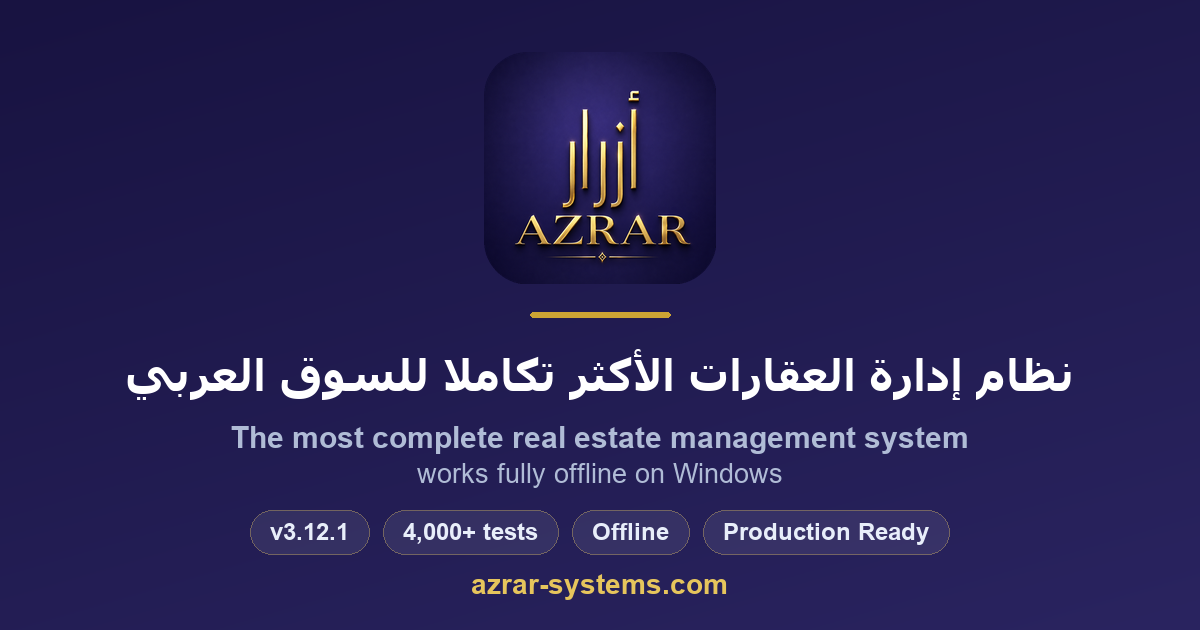
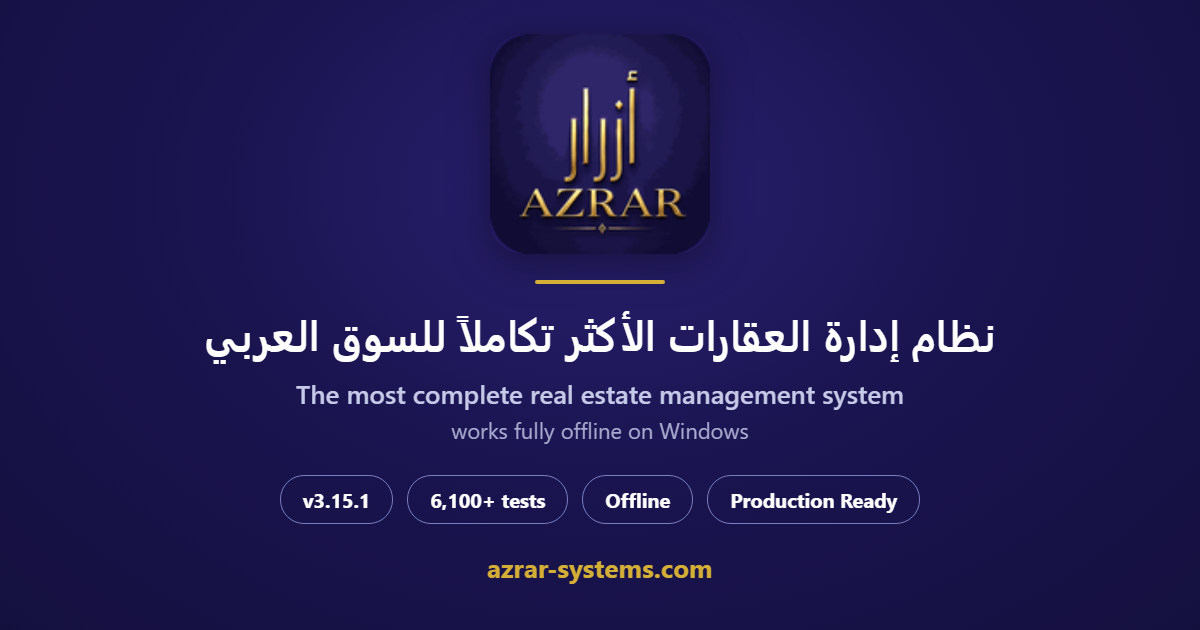
Regenerate stale og-image.png with current version/test stats
og-image.png still showed v3.12.1 / 4,000+ tests (site is now v3.15.1 /
6,100+ tests), so every shared link showed outdated info in previews.
Rebuilt the same design with current numbers, bumped the ?v= cache-buster
on all 22 referencing pages, and bumped the Service Worker cache version.

diff --git a/guide.html b/guide.html
@@ -38,12 +38,12 @@ window.addEventListener('load',function(){
 <meta property="og:url" content="https://azrar-systems.com/guide.html">
 <meta property="og:title" content="دليل استخدام نظام أزرار العقاري خطوة بخطوة">
 <meta property="og:description" content="تعلّم نظام أزرار من الصفر حتى الاحتراف: التفعيل، قاعدة البيانات، العقود، الأقساط، التحصيل، العمولات، واتساب، والتقارير.">
-<meta property="og:image" content="https://azrar-systems.com/og-image.png?v=4">
+<meta property="og:image" content="https://azrar-systems.com/og-image.png?v=5">
 <meta property="og:image:width" content="1200">
 <meta property="og:image:height" content="630">
 <meta property="og:site_name" content="AZRAR SYSTEMS">
 <meta name="twitter:card" content="summary_large_image">
-<meta name="twitter:image" content="https://azrar-systems.com/og-image.png?v=4">
+<meta name="twitter:image" content="https://azrar-systems.com/og-image.png?v=5">
 <link rel="icon" href="logo.png">
 <script type="application/ld+json">
 {
@@ -51,7 +51,7 @@ window.addEventListener('load',function(){
   "@type": "TechArticle",
   "headline": "دليل استخدام نظام أزرار العقاري — شرح كامل خطوة بخطوة",
   "description": "دليل شامل لتعلّم نظام أزرار لإدارة العقارات خطوة بخطوة: التثبيت والتفعيل، العقود والأقساط، التحصيل، العمولات، واتساب الجماعي، والتقارير والنسخ الاحتياطي.",
-  "image": "https://azrar-systems.com/og-image.png?v=4",
+  "image": "https://azrar-systems.com/og-image.png?v=5",
   "author": {
     "@type": "Organization",
     "name": "AZRAR SYSTEMS",
@@ -176,7 +176,7 @@ footer a{color:#dcb15f;text-decoration:none;}
 .lang-btn.active{background:var(--blue)!important;color:#fff!important;}
 </style>
 <script type="application/ld+json">
-{"@context":"https://schema.org","@type":"HowTo","name":"كيفية استخدام نظام أزرار لإدارة العقارات","description":"دليل شامل خطوة بخطوة لتعلّم نظام أزرار: التفعيل، قاعدة البيانات والمزامنة، العقارات والعملاء، العقود والأقساط، التحصيل والغرامات، العمولات، واتساب الجماعي، التقارير، الصيانة، والنسخ الاحتياطي.","totalTime":"PT45M","image":"https://azrar-systems.com/og-image.png?v=4","step":[{"@type":"HowToStep","name":"التثبيت والتفعيل","text":"ثبّت النظام على Windows وفعّل الترخيص أو ابدأ التجربة المجانية 30 يوماً.","url":"https://azrar-systems.com/guide.html#install"},{"@type":"HowToStep","name":"الإعداد الأولي والمستخدمون","text":"أضف بيانات مكتبك والمستخدمين والصلاحيات والإعدادات الافتراضية.","url":"https://azrar-systems.com/guide.html#setup"},{"@type":"HowToStep","name":"قاعدة البيانات والمزامنة","text":"اعمل محلياً بلا إنترنت، أو اربط عدة أجهزة عبر SQL Server.","url":"https://azrar-systems.com/guide.html#database"},{"@type":"HowToStep","name":"لوحة المعلومات","text":"تابع نسبة الإشغال والأقساط المستحقة والمتأخرات في لمحة.","url":"https://azrar-systems.com/guide.html#dashboard"},{"@type":"HowToStep","name":"إضافة العقارات","text":"سجّل وحداتك العقارية وحالتها ومرفقاتها.","url":"https://azrar-systems.com/guide.html#properties"},{"@type":"HowToStep","name":"العملاء والملاك","text":"ابنِ قاعدة بيانات المستأجرين والملاك والوسطاء.","url":"https://azrar-systems.com/guide.html#people"},{"@type":"HowToStep","name":"إنشاء العقود والأقساط","text":"أنشئ عقد إيجار واحسب الأقساط تلقائياً بفرقية الأيام الفعلية.","url":"https://azrar-systems.com/guide.html#contracts"},{"@type":"HowToStep","name":"التحصيل والدفعات","text":"سجّل الدفعات الكاملة والجزئية وتابع المتأخرات والغرامات.","url":"https://azrar-systems.com/guide.html#payments"},{"@type":"HowToStep","name":"العمولات","text":"احتسب عمولات الوسطاء والموظفين تلقائياً.","url":"https://azrar-systems.com/guide.html#commissions"},{"@type":"HowToStep","name":"واتساب الجماعي","text":"أرسل تذكيرات واتساب جماعية مخصّصة.","url":"https://azrar-systems.com/guide.html#whatsapp"},{"@type":"HowToStep","name":"التقارير","text":"استخرج تقارير المالك والدخل والمتأخرات وبراءة الذمة.","url":"https://azrar-systems.com/guide.html#reports"},{"@type":"HowToStep","name":"النسخ الاحتياطي","text":"النسخ التلقائي اليومي والاستعادة الفورية.","url":"https://azrar-systems.com/guide.html#backup"}]}
+{"@context":"https://schema.org","@type":"HowTo","name":"كيفية استخدام نظام أزرار لإدارة العقارات","description":"دليل شامل خطوة بخطوة لتعلّم نظام أزرار: التفعيل، قاعدة البيانات والمزامنة، العقارات والعملاء، العقود والأقساط، التحصيل والغرامات، العمولات، واتساب الجماعي، التقارير، الصيانة، والنسخ الاحتياطي.","totalTime":"PT45M","image":"https://azrar-systems.com/og-image.png?v=5","step":[{"@type":"HowToStep","name":"التثبيت والتفعيل","text":"ثبّت النظام على Windows وفعّل الترخيص أو ابدأ التجربة المجانية 30 يوماً.","url":"https://azrar-systems.com/guide.html#install"},{"@type":"HowToStep","name":"الإعداد الأولي والمستخدمون","text":"أضف بيانات مكتبك والمستخدمين والصلاحيات والإعدادات الافتراضية.","url":"https://azrar-systems.com/guide.html#setup"},{"@type":"HowToStep","name":"قاعدة البيانات والمزامنة","text":"اعمل محلياً بلا إنترنت، أو اربط عدة أجهزة عبر SQL Server.","url":"https://azrar-systems.com/guide.html#database"},{"@type":"HowToStep","name":"لوحة المعلومات","text":"تابع نسبة الإشغال والأقساط المستحقة والمتأخرات في لمحة.","url":"https://azrar-systems.com/guide.html#dashboard"},{"@type":"HowToStep","name":"إضافة العقارات","text":"سجّل وحداتك العقارية وحالتها ومرفقاتها.","url":"https://azrar-systems.com/guide.html#properties"},{"@type":"HowToStep","name":"العملاء والملاك","text":"ابنِ قاعدة بيانات المستأجرين والملاك والوسطاء.","url":"https://azrar-systems.com/guide.html#people"},{"@type":"HowToStep","name":"إنشاء العقود والأقساط","text":"أنشئ عقد إيجار واحسب الأقساط تلقائياً بفرقية الأيام الفعلية.","url":"https://azrar-systems.com/guide.html#contracts"},{"@type":"HowToStep","name":"التحصيل والدفعات","text":"سجّل الدفعات الكاملة والجزئية وتابع المتأخرات والغرامات.","url":"https://azrar-systems.com/guide.html#payments"},{"@type":"HowToStep","name":"العمولات","text":"احتسب عمولات الوسطاء والموظفين تلقائياً.","url":"https://azrar-systems.com/guide.html#commissions"},{"@type":"HowToStep","name":"واتساب الجماعي","text":"أرسل تذكيرات واتساب جماعية مخصّصة.","url":"https://azrar-systems.com/guide.html#whatsapp"},{"@type":"HowToStep","name":"التقارير","text":"استخرج تقارير المالك والدخل والمتأخرات وبراءة الذمة.","url":"https://azrar-systems.com/guide.html#reports"},{"@type":"HowToStep","name":"النسخ الاحتياطي","text":"النسخ التلقائي اليومي والاستعادة الفورية.","url":"https://azrar-systems.com/guide.html#backup"}]}
 </script>
 <script type="application/ld+json">{"@context": "https://schema.org", "@type": "BreadcrumbList", "itemListElement": [{"@type": "ListItem", "position": 1, "name": "الرئيسية", "item": "https://azrar-systems.com/"}, {"@type": "ListItem", "position": 2, "name": "دليل الاستخدام", "item": "https://azrar-systems.com/guide.html"}]}</script>
 <script>document.documentElement.className+=" az-anim";</script>

diff --git a/guide-en.html b/guide-en.html
@@ -38,11 +38,11 @@ window.addEventListener('load',function(){
 <meta property="og:url" content="https://azrar-systems.com/guide-en.html">
 <meta property="og:title" content="AZRAR User Guide — Real Estate Management Step by Step">
 <meta property="og:description" content="Learn AZRAR from zero to pro: activation, database, contracts, installments, collection, commissions, WhatsApp, and reports.">
-<meta property="og:image" content="https://azrar-systems.com/og-image.png?v=4">
+<meta property="og:image" content="https://azrar-systems.com/og-image.png?v=5">
 <meta property="og:image:width" content="1200"><meta property="og:image:height" content="630">
 <meta property="og:site_name" content="AZRAR SYSTEMS"><meta property="og:locale" content="en_US">
 <meta name="twitter:card" content="summary_large_image">
-<meta name="twitter:image" content="https://azrar-systems.com/og-image.png?v=4">
+<meta name="twitter:image" content="https://azrar-systems.com/og-image.png?v=5">
 <link rel="icon" href="logo.png">
 <script type="application/ld+json">
 {
@@ -50,7 +50,7 @@ window.addEventListener('load',function(){
   "@type": "TechArticle",
   "headline": "AZRAR User Guide — Real Estate Management Step by Step",
   "description": "Complete step-by-step guide to AZRAR real estate software: installation, contracts & installments, collection, commissions, bulk WhatsApp, reports and backup.",
-  "image": "https://azrar-systems.com/og-image.png?v=4",
+  "image": "https://azrar-systems.com/og-image.png?v=5",
   "author": {
     "@type": "Organization",
     "name": "AZRAR SYSTEMS",
@@ -163,7 +163,7 @@ footer a{color:var(--gold-l);text-decoration:none;}
 .lang-btn.active{background:var(--blue)!important;color:#fff!important;}
 </style>
 <script type="application/ld+json">
-{"@context":"https://schema.org","@type":"HowTo","name":"How to use AZRAR Real Estate System","description":"Complete step-by-step guide to AZRAR: activation, database & sync, properties & clients, contracts & installments, collection & late fees, commissions, bulk WhatsApp, reports, maintenance and backup.","totalTime":"PT45M","image":"https://azrar-systems.com/og-image.png?v=4","step":[{"@type":"HowToStep","name":"Installation & Activation","text":"Install AZRAR on Windows and activate or start the 30-day free trial.","url":"https://azrar-systems.com/guide-en.html#install"},{"@type":"HowToStep","name":"Initial Setup & Users","text":"Set your office details, users and default settings.","url":"https://azrar-systems.com/guide-en.html#setup"},{"@type":"HowToStep","name":"Database & Sync","text":"Work locally offline, or sync several devices via SQL Server.","url":"https://azrar-systems.com/guide-en.html#database"},{"@type":"HowToStep","name":"Dashboard","text":"See occupancy, due installments and overdue at a glance.","url":"https://azrar-systems.com/guide-en.html#dashboard"},{"@type":"HowToStep","name":"Properties","text":"Register your units, status and attachments.","url":"https://azrar-systems.com/guide-en.html#properties"},{"@type":"HowToStep","name":"Clients & Owners","text":"Build a database of tenants, owners and brokers.","url":"https://azrar-systems.com/guide-en.html#people"},{"@type":"HowToStep","name":"Contracts & Installments","text":"Create a lease and auto-calculate installments by actual days.","url":"https://azrar-systems.com/guide-en.html#contracts"},{"@type":"HowToStep","name":"Collection & Payments","text":"Record full/partial payments and track overdue and late fees.","url":"https://azrar-systems.com/guide-en.html#payments"},{"@type":"HowToStep","name":"Commissions","text":"Auto-calculate broker and employee commissions.","url":"https://azrar-systems.com/guide-en.html#commissions"},{"@type":"HowToStep","name":"Bulk WhatsApp","text":"Send personalized WhatsApp reminders in bulk.","url":"https://azrar-systems.com/guide-en.html#whatsapp"},{"@type":"HowToStep","name":"Reports","text":"Owner, income, overdue and clearance reports.","url":"https://azrar-systems.com/guide-en.html#reports"},{"@type":"HowToStep","name":"Backup","text":"Automatic daily backup and instant restore.","url":"https://azrar-systems.com/guide-en.html#backup"}]}
+{"@context":"https://schema.org","@type":"HowTo","name":"How to use AZRAR Real Estate System","description":"Complete step-by-step guide to AZRAR: activation, database & sync, properties & clients, contracts & installments, collection & late fees, commissions, bulk WhatsApp, reports, maintenance and backup.","totalTime":"PT45M","image":"https://azrar-systems.com/og-image.png?v=5","step":[{"@type":"HowToStep","name":"Installation & Activation","text":"Install AZRAR on Windows and activate or start the 30-day free trial.","url":"https://azrar-systems.com/guide-en.html#install"},{"@type":"HowToStep","name":"Initial Setup & Users","text":"Set your office details, users and default settings.","url":"https://azrar-systems.com/guide-en.html#setup"},{"@type":"HowToStep","name":"Database & Sync","text":"Work locally offline, or sync several devices via SQL Server.","url":"https://azrar-systems.com/guide-en.html#database"},{"@type":"HowToStep","name":"Dashboard","text":"See occupancy, due installments and overdue at a glance.","url":"https://azrar-systems.com/guide-en.html#dashboard"},{"@type":"HowToStep","name":"Properties","text":"Register your units, status and attachments.","url":"https://azrar-systems.com/guide-en.html#properties"},{"@type":"HowToStep","name":"Clients & Owners","text":"Build a database of tenants, owners and brokers.","url":"https://azrar-systems.com/guide-en.html#people"},{"@type":"HowToStep","name":"Contracts & Installments","text":"Create a lease and auto-calculate installments by actual days.","url":"https://azrar-systems.com/guide-en.html#contracts"},{"@type":"HowToStep","name":"Collection & Payments","text":"Record full/partial payments and track overdue and late fees.","url":"https://azrar-systems.com/guide-en.html#payments"},{"@type":"HowToStep","name":"Commissions","text":"Auto-calculate broker and employee commissions.","url":"https://azrar-systems.com/guide-en.html#commissions"},{"@type":"HowToStep","name":"Bulk WhatsApp","text":"Send personalized WhatsApp reminders in bulk.","url":"https://azrar-systems.com/guide-en.html#whatsapp"},{"@type":"HowToStep","name":"Reports","text":"Owner, income, overdue and clearance reports.","url":"https://azrar-systems.com/guide-en.html#reports"},{"@type":"HowToStep","name":"Backup","text":"Automatic daily backup and instant restore.","url":"https://azrar-systems.com/guide-en.html#backup"}]}
 </script>
 <script type="application/ld+json">{"@context": "https://schema.org", "@type": "BreadcrumbList", "itemListElement": [{"@type": "ListItem", "position": 1, "name": "Home", "item": "https://azrar-systems.com/"}, {"@type": "ListItem", "position": 2, "name": "User Guide", "item": "https://azrar-systems.com/guide-en.html"}]}</script>
 <script>document.documentElement.className+=" az-anim";</script>

diff --git a/article-late-fees.html b/article-late-fees.html
@@ -38,11 +38,11 @@ window.addEventListener('load',function(){
 <meta property="og:url" content="https://azrar-systems.com/article-late-fees.html">
 <meta property="og:title" content="كيف تحسب غرامة تأخير الإيجار بطريقة عادلة؟ | مدونة أزرار">
 <meta property="og:description" content="دليل عملي لحساب غرامة تأخير الإيجار بثلاث طرق (ثابتة، يومية، نسبية) مع أمثلة ونصائح قانونية، وكيف يحسبها نظام أزرار تلقائياً.">
-<meta property="og:image" content="https://azrar-systems.com/og-image.png?v=4">
+<meta property="og:image" content="https://azrar-systems.com/og-image.png?v=5">
 <meta property="og:image:width" content="1200"><meta property="og:image:height" content="630">
 <meta property="og:site_name" content="AZRAR SYSTEMS">
 <meta name="twitter:card" content="summary_large_image">
-<meta name="twitter:image" content="https://azrar-systems.com/og-image.png?v=4">
+<meta name="twitter:image" content="https://azrar-systems.com/og-image.png?v=5">
 <link rel="icon" href="logo.png">
 <script type="application/ld+json">
 {
@@ -50,7 +50,7 @@ window.addEventListener('load',function(){
   "@type": "BlogPosting",
   "headline": "كيف تحسب غرامة تأخير الإيجار بطريقة عادلة؟",
   "description": "دليل عملي لحساب غرامة تأخير الإيجار بثلاث طرق (ثابتة، يومية، نسبية) مع أمثلة ونصائح قانونية، وكيف يحسبها نظام أزرار تلقائياً.",
-  "image": "https://azrar-systems.com/og-image.png?v=4",
+  "image": "https://azrar-systems.com/og-image.png?v=5",
   "author": {
     "@type": "Organization",
     "name": "AZRAR SYSTEMS",
@@ -159,7 +159,7 @@ footer a{color:var(--gold-l);text-decoration:none;}
 .lang-btn.active{background:var(--blue)!important;color:#fff!important;}
 </style>
 <script type="application/ld+json">
-{"@context":"https://schema.org","@type":"Article","headline":"كيف تحسب غرامة تأخير الإيجار بطريقة عادلة؟","description":"حساب غرامة تأخير الإيجار بثلاث طرق عادلة.","image":"https://azrar-systems.com/og-image.png?v=4","datePublished":"2026-06-08","dateModified":"2026-06-08","author":{"@type":"Organization","name":"AZRAR SYSTEMS"},"publisher":{"@type":"Organization","name":"AZRAR SYSTEMS","logo":{"@type":"ImageObject","url":"https://azrar-systems.com/logo.png"}},"mainEntityOfPage":"https://azrar-systems.com/article-late-fees.html"}
+{"@context":"https://schema.org","@type":"Article","headline":"كيف تحسب غرامة تأخير الإيجار بطريقة عادلة؟","description":"حساب غرامة تأخير الإيجار بثلاث طرق عادلة.","image":"https://azrar-systems.com/og-image.png?v=5","datePublished":"2026-06-08","dateModified":"2026-06-08","author":{"@type":"Organization","name":"AZRAR SYSTEMS"},"publisher":{"@type":"Organization","name":"AZRAR SYSTEMS","logo":{"@type":"ImageObject","url":"https://azrar-systems.com/logo.png"}},"mainEntityOfPage":"https://azrar-systems.com/article-late-fees.html"}
 </script>
 <script type="application/ld+json">{"@context": "https://schema.org", "@type": "BreadcrumbList", "itemListElement": [{"@type": "ListItem", "position": 1, "name": "الرئيسية", "item": "https://azrar-systems.com/"}, {"@type": "ListItem", "position": 2, "name": "المدونة", "item": "https://azrar-systems.com/articles.html"}, {"@type": "ListItem", "position": 3, "name": "حساب غرامة تأخير الإيجار", "item": "https://azrar-systems.com/article-late-fees.html"}]}</script>
 <script>document.documentElement.className+=" az-anim";</script>

diff --git a/article-choosing-software.html b/article-choosing-software.html
@@ -38,11 +38,11 @@ window.addEventListener('load',function(){
 <meta property="og:url" content="https://azrar-systems.com/article-choosing-software.html">
 <meta property="og:title" content="كيف تختار برنامج إدارة عقارات مناسب لمكتبك؟ | مدونة أزرار">
 <meta property="og:description" content="معايير اختيار برنامج إدارة العقارات: الأمان، العمل بدون إنترنت، الدقة المالية، دعم السوق العربي، والأتمتة والدعم.">
-<meta property="og:image" content="https://azrar-systems.com/og-image.png?v=4">
+<meta property="og:image" content="https://azrar-systems.com/og-image.png?v=5">
 <meta property="og:image:width" content="1200"><meta property="og:image:height" content="630">
 <meta property="og:site_name" content="AZRAR SYSTEMS">
 <meta name="twitter:card" content="summary_large_image">
-<meta name="twitter:image" content="https://azrar-systems.com/og-image.png?v=4">
+<meta name="twitter:image" content="https://azrar-systems.com/og-image.png?v=5">
 <link rel="icon" href="logo.png">
 <script type="application/ld+json">
 {
@@ -50,7 +50,7 @@ window.addEventListener('load',function(){
   "@type": "BlogPosting",
   "headline": "كيف تختار برنامج إدارة عقارات مناسب لمكتبك؟",
   "description": "معايير اختيار برنامج إدارة العقارات: الأمان، العمل بدون إنترنت، الدقة المالية، دعم السوق العربي، والأتمتة والدعم.",
-  "image": "https://azrar-systems.com/og-image.png?v=4",
+  "image": "https://azrar-systems.com/og-image.png?v=5",
   "author": {
     "@type": "Organization",
     "name": "AZRAR SYSTEMS",
@@ -159,7 +159,7 @@ footer a{color:var(--gold-l);text-decoration:none;}
 .lang-btn.active{background:var(--blue)!important;color:#fff!important;}
 </style>
 <script type="application/ld+json">
-{"@context":"https://schema.org","@type":"Article","headline":"كيف تختار برنامج إدارة عقارات مناسب لمكتبك؟","description":"معايير اختيار البرنامج العقاري.","image":"https://azrar-systems.com/og-image.png?v=4","datePublished":"2026-06-08","dateModified":"2026-06-08","author":{"@type":"Organization","name":"AZRAR SYSTEMS"},"publisher":{"@type":"Organization","name":"AZRAR SYSTEMS","logo":{"@type":"ImageObject","url":"https://azrar-systems.com/logo.png"}},"mainEntityOfPage":"https://azrar-systems.com/article-choosing-software.html"}
+{"@context":"https://schema.org","@type":"Article","headline":"كيف تختار برنامج إدارة عقارات مناسب لمكتبك؟","description":"معايير اختيار البرنامج العقاري.","image":"https://azrar-systems.com/og-image.png?v=5","datePublished":"2026-06-08","dateModified":"2026-06-08","author":{"@type":"Organization","name":"AZRAR SYSTEMS"},"publisher":{"@type":"Organization","name":"AZRAR SYSTEMS","logo":{"@type":"ImageObject","url":"https://azrar-systems.com/logo.png"}},"mainEntityOfPage":"https://azrar-systems.com/article-choosing-software.html"}
 </script>
 <script type="application/ld+json">{"@context": "https://schema.org", "@type": "BreadcrumbList", "itemListElement": [{"@type": "ListItem", "position": 1, "name": "الرئيسية", "item": "https://azrar-systems.com/"}, {"@type": "ListItem", "position": 2, "name": "المدونة", "item": "https://azrar-systems.com/articles.html"}, {"@type": "ListItem", "position": 3, "name": "اختيار برنامج عقاري", "item": "https://azrar-systems.com/article-choosing-software.html"}]}</script>
 <script>document.documentElement.className+=" az-anim";</script>

diff --git a/article-rental-management.html b/article-rental-management.html
@@ -38,11 +38,11 @@ window.addEventListener('load',function(){
 <meta property="og:url" content="https://azrar-systems.com/article-rental-management.html">
 <meta property="og:title" content="7 ممارسات لإدارة عقود الإيجار باحتراف | مدونة أزرار">
 <meta property="og:description" content="أفضل 7 ممارسات لإدارة عقود الإيجار في المكاتب العقارية: التوثيق، دقة الأقساط، التذكير، متابعة المتأخرات، والنسخ الاحتياطي.">
-<meta property="og:image" content="https://azrar-systems.com/og-image.png?v=4">
+<meta property="og:image" content="https://azrar-systems.com/og-image.png?v=5">
 <meta property="og:image:width" content="1200"><meta property="og:image:height" content="630">
 <meta property="og:site_name" content="AZRAR SYSTEMS">
 <meta name="twitter:card" content="summary_large_image">
-<meta name="twitter:image" content="https://azrar-systems.com/og-image.png?v=4">
+<meta name="twitter:image" content="https://azrar-systems.com/og-image.png?v=5">
 <link rel="icon" href="logo.png">
 <script type="application/ld+json">
 {
@@ -50,7 +50,7 @@ window.addEventListener('load',function(){
   "@type": "BlogPosting",
   "headline": "7 ممارسات لإدارة عقود الإيجار باحتراف",
   "description": "أفضل 7 ممارسات لإدارة عقود الإيجار في المكاتب العقارية: التوثيق، دقة الأقساط، التذكير، متابعة المتأخرات، والنسخ الاحتياطي.",
-  "image": "https://azrar-systems.com/og-image.png?v=4",
+  "image": "https://azrar-systems.com/og-image.png?v=5",
   "author": {
     "@type": "Organization",
     "name": "AZRAR SYSTEMS",
@@ -159,7 +159,7 @@ footer a{color:var(--gold-l);text-decoration:none;}
 .lang-btn.active{background:var(--blue)!important;color:#fff!important;}
 </style>
 <script type="application/ld+json">
-{"@context":"https://schema.org","@type":"Article","headline":"7 ممارسات لإدارة عقود الإيجار باحتراف","description":"أفضل ممارسات إدارة عقود الإيجار.","image":"https://azrar-systems.com/og-image.png?v=4","datePublished":"2026-06-08","dateModified":"2026-06-08","author":{"@type":"Organization","name":"AZRAR SYSTEMS"},"publisher":{"@type":"Organization","name":"AZRAR SYSTEMS","logo":{"@type":"ImageObject","url":"https://azrar-systems.com/logo.png"}},"mainEntityOfPage":"https://azrar-systems.com/article-rental-management.html"}
+{"@context":"https://schema.org","@type":"Article","headline":"7 ممارسات لإدارة عقود الإيجار باحتراف","description":"أفضل ممارسات إدارة عقود الإيجار.","image":"https://azrar-systems.com/og-image.png?v=5","datePublished":"2026-06-08","dateModified":"2026-06-08","author":{"@type":"Organization","name":"AZRAR SYSTEMS"},"publisher":{"@type":"Organization","name":"AZRAR SYSTEMS","logo":{"@type":"ImageObject","url":"https://azrar-systems.com/logo.png"}},"mainEntityOfPage":"https://azrar-systems.com/article-rental-management.html"}
 </script>
 <script type="application/ld+json">{"@context": "https://schema.org", "@type": "BreadcrumbList", "itemListElement": [{"@type": "ListItem", "position": 1, "name": "الرئيسية", "item": "https://azrar-systems.com/"}, {"@type": "ListItem", "position": 2, "name": "المدونة", "item": "https://azrar-systems.com/articles.html"}, {"@type": "ListItem", "position": 3, "name": "إدارة عقود الإيجار", "item": "https://azrar-systems.com/article-rental-management.html"}]}</script>
 <script>document.documentElement.className+=" az-anim";</script>

diff --git a/article-rental-management-en.html b/article-rental-management-en.html
@@ -38,11 +38,11 @@ window.addEventListener('load',function(){
 <meta property="og:url" content="https://azrar-systems.com/article-rental-management-en.html">
 <meta property="og:title" content="7 Best Practices for Managing Lease Contracts | AZRAR Blog">
 <meta property="og:description" content="The 7 best practices for managing lease contracts in real estate offices: documentation, installment accuracy, reminders, overdue tracking and backups.">
-<meta property="og:image" content="https://azrar-systems.com/og-image.png?v=4">
+<meta property="og:image" content="https://azrar-systems.com/og-image.png?v=5">
 <meta property="og:image:width" content="1200"><meta property="og:image:height" content="630">
 <meta property="og:site_name" content="AZRAR SYSTEMS"><meta property="og:locale" content="en_US">
 <meta name="twitter:card" content="summary_large_image">
-<meta name="twitter:image" content="https://azrar-systems.com/og-image.png?v=4">
+<meta name="twitter:image" content="https://azrar-systems.com/og-image.png?v=5">
 <link rel="icon" href="logo.png">
 <script type="application/ld+json">
 {
@@ -50,7 +50,7 @@ window.addEventListener('load',function(){
   "@type": "BlogPosting",
   "headline": "7 Best Practices for Managing Lease Contracts",
   "description": "The 7 best practices for managing lease contracts in real estate offices: documentation, installment accuracy, reminders, overdue tracking and backups.",
-  "image": "https://azrar-systems.com/og-image.png?v=4",
+  "image": "https://azrar-systems.com/og-image.png?v=5",
   "author": {
     "@type": "Organization",
     "name": "AZRAR SYSTEMS",
@@ -170,7 +170,7 @@ footer a{color:var(--gold-l);text-decoration:none;}
 .lang-btn.active{background:var(--blue)!important;color:#fff!important;}
 </style>
 <script type="application/ld+json">
-{"@context":"https://schema.org","@type":"Article","headline":"7 Best Practices for Managing Lease Contracts","description":"Best practices for managing lease contracts.","image":"https://azrar-systems.com/og-image.png?v=4","datePublished":"2026-06-08","dateModified":"2026-06-08","author":{"@type":"Organization","name":"AZRAR SYSTEMS"},"publisher":{"@type":"Organization","name":"AZRAR SYSTEMS","logo":{"@type":"ImageObject","url":"https://azrar-systems.com/logo.png"}},"mainEntityOfPage":"https://azrar-systems.com/article-rental-management-en.html"}
+{"@context":"https://schema.org","@type":"Article","headline":"7 Best Practices for Managing Lease Contracts","description":"Best practices for managing lease contracts.","image":"https://azrar-systems.com/og-image.png?v=5","datePublished":"2026-06-08","dateModified":"2026-06-08","author":{"@type":"Organization","name":"AZRAR SYSTEMS"},"publisher":{"@type":"Organization","name":"AZRAR SYSTEMS","logo":{"@type":"ImageObject","url":"https://azrar-systems.com/logo.png"}},"mainEntityOfPage":"https://azrar-systems.com/article-rental-management-en.html"}
 </script>
 <script type="application/ld+json">{"@context": "https://schema.org", "@type": "BreadcrumbList", "itemListElement": [{"@type": "ListItem", "position": 1, "name": "Home", "item": "https://azrar-systems.com/"}, {"@type": "ListItem", "position": 2, "name": "Blog", "item": "https://azrar-systems.com/articles-en.html"}, {"@type": "ListItem", "position": 3, "name": "Managing Lease Contracts", "item": "https://azrar-systems.com/article-rental-management-en.html"}]}</script>
 <script>document.documentElement.className+=" az-anim";</script>

diff --git a/article-choosing-software-en.html b/article-choosing-software-en.html
@@ -38,11 +38,11 @@ window.addEventListener('load',function(){
 <meta property="og:url" content="https://azrar-systems.com/article-choosing-software-en.html">
 <meta property="og:title" content="How to Choose the Right Real Estate Software | AZRAR Blog">
 <meta property="og:description" content="Criteria for choosing real estate management software: security, offline operation, financial accuracy, Arab-market support, automation and support.">
-<meta property="og:image" content="https://azrar-systems.com/og-image.png?v=4">
+<meta property="og:image" content="https://azrar-systems.com/og-image.png?v=5">
 <meta property="og:image:width" content="1200"><meta property="og:image:height" content="630">
 <meta property="og:site_name" content="AZRAR SYSTEMS"><meta property="og:locale" content="en_US">
 <meta name="twitter:card" content="summary_large_image">
-<meta name="twitter:image" content="https://azrar-systems.com/og-image.png?v=4">
+<meta name="twitter:image" content="https://azrar-systems.com/og-image.png?v=5">
 <link rel="icon" href="logo.png">
 <script type="application/ld+json">
 {
@@ -50,7 +50,7 @@ window.addEventListener('load',function(){
   "@type": "BlogPosting",
   "headline": "How to Choose the Right Real Estate Software",
   "description": "Criteria for choosing real estate management software: security, offline operation, financial accuracy, Arab-market support, automation and support.",
-  "image": "https://azrar-systems.com/og-image.png?v=4",
+  "image": "https://azrar-systems.com/og-image.png?v=5",
   "author": {
     "@type": "Organization",
     "name": "AZRAR SYSTEMS",
@@ -170,7 +170,7 @@ footer a{color:var(--gold-l);text-decoration:none;}
 .lang-btn.active{background:var(--blue)!important;color:#fff!important;}
 </style>
 <script type="application/ld+json">
-{"@context":"https://schema.org","@type":"Article","headline":"How to Choose the Right Real Estate Software","description":"Criteria for choosing real estate software.","image":"https://azrar-systems.com/og-image.png?v=4","datePublished":"2026-06-08","dateModified":"2026-06-08","author":{"@type":"Organization","name":"AZRAR SYSTEMS"},"publisher":{"@type":"Organization","name":"AZRAR SYSTEMS","logo":{"@type":"ImageObject","url":"https://azrar-systems.com/logo.png"}},"mainEntityOfPage":"https://azrar-systems.com/article-choosing-software-en.html"}
+{"@context":"https://schema.org","@type":"Article","headline":"How to Choose the Right Real Estate Software","description":"Criteria for choosing real estate software.","image":"https://azrar-systems.com/og-image.png?v=5","datePublished":"2026-06-08","dateModified":"2026-06-08","author":{"@type":"Organization","name":"AZRAR SYSTEMS"},"publisher":{"@type":"Organization","name":"AZRAR SYSTEMS","logo":{"@type":"ImageObject","url":"https://azrar-systems.com/logo.png"}},"mainEntityOfPage":"https://azrar-systems.com/article-choosing-software-en.html"}
 </script>
 <script type="application/ld+json">{"@context": "https://schema.org", "@type": "BreadcrumbList", "itemListElement": [{"@type": "ListItem", "position": 1, "name": "Home", "item": "https://azrar-systems.com/"}, {"@type": "ListItem", "position": 2, "name": "Blog", "item": "https://azrar-systems.com/articles-en.html"}, {"@type": "ListItem", "position": 3, "name": "Choosing Software", "item": "https://azrar-systems.com/article-choosing-software-en.html"}]}</script>
 <script>document.documentElement.className+=" az-anim";</script>

diff --git a/article-late-fees-en.html b/article-late-fees-en.html
@@ -38,11 +38,11 @@ window.addEventListener('load',function(){
 <meta property="og:url" content="https://azrar-systems.com/article-late-fees-en.html">
 <meta property="og:title" content="How to Calculate Late Rent Fees Fairly | AZRAR Blog">
 <meta property="og:description" content="A practical guide to calculating late rent fees three ways (fixed, daily, percentage) with examples and legal tips, and how AZRAR automates it.">
-<meta property="og:image" content="https://azrar-systems.com/og-image.png?v=4">
+<meta property="og:image" content="https://azrar-systems.com/og-image.png?v=5">
 <meta property="og:image:width" content="1200"><meta property="og:image:height" content="630">
 <meta property="og:site_name" content="AZRAR SYSTEMS"><meta property="og:locale" content="en_US">
 <meta name="twitter:card" content="summary_large_image">
-<meta name="twitter:image" content="https://azrar-systems.com/og-image.png?v=4">
+<meta name="twitter:image" content="https://azrar-systems.com/og-image.png?v=5">
 <link rel="icon" href="logo.png">
 <script type="application/ld+json">
 {
@@ -50,7 +50,7 @@ window.addEventListener('load',function(){
   "@type": "BlogPosting",
   "headline": "How to Calculate Late Rent Fees Fairly",
   "description": "A practical guide to calculating late rent fees three ways (fixed, daily, percentage) with examples and legal tips, and how AZRAR automates it.",
-  "image": "https://azrar-systems.com/og-image.png?v=4",
+  "image": "https://azrar-systems.com/og-image.png?v=5",
   "author": {
     "@type": "Organization",
     "name": "AZRAR SYSTEMS",
@@ -170,7 +170,7 @@ footer a{color:var(--gold-l);text-decoration:none;}
 .lang-btn.active{background:var(--blue)!important;color:#fff!important;}
 </style>
 <script type="application/ld+json">
-{"@context":"https://schema.org","@type":"Article","headline":"How to Calculate Late Rent Fees Fairly","description":"Calculating late rent fees fairly.","image":"https://azrar-systems.com/og-image.png?v=4","datePublished":"2026-06-08","dateModified":"2026-06-08","author":{"@type":"Organization","name":"AZRAR SYSTEMS"},"publisher":{"@type":"Organization","name":"AZRAR SYSTEMS","logo":{"@type":"ImageObject","url":"https://azrar-systems.com/logo.png"}},"mainEntityOfPage":"https://azrar-systems.com/article-late-fees-en.html"}
+{"@context":"https://schema.org","@type":"Article","headline":"How to Calculate Late Rent Fees Fairly","description":"Calculating late rent fees fairly.","image":"https://azrar-systems.com/og-image.png?v=5","datePublished":"2026-06-08","dateModified":"2026-06-08","author":{"@type":"Organization","name":"AZRAR SYSTEMS"},"publisher":{"@type":"Organization","name":"AZRAR SYSTEMS","logo":{"@type":"ImageObject","url":"https://azrar-systems.com/logo.png"}},"mainEntityOfPage":"https://azrar-systems.com/article-late-fees-en.html"}
 </script>
 <script type="application/ld+json">{"@context": "https://schema.org", "@type": "BreadcrumbList", "itemListElement": [{"@type": "ListItem", "position": 1, "name": "Home", "item": "https://azrar-systems.com/"}, {"@type": "ListItem", "position": 2, "name": "Blog", "item": "https://azrar-systems.com/articles-en.html"}, {"@type": "ListItem", "position": 3, "name": "Calculating Late Fees", "item": "https://azrar-systems.com/article-late-fees-en.html"}]}</script>
 <script>document.documentElement.className+=" az-anim";</script>

diff --git a/index.html b/index.html
@@ -76,7 +76,7 @@
 <meta name="geo.placename" content="Jordan">
 <meta name="language" content="Arabic, English">
 <meta name="rating" content="general">
-<link rel="image_src" href="https://azrar-systems.com/og-image.png?v=4">
+<link rel="image_src" href="https://azrar-systems.com/og-image.png?v=5">
 <meta name="theme-color" content="#181341">
 <link rel="icon" href="/favicon.ico" sizes="any">
 <link rel="icon" type="image/png" sizes="32x32" href="/favicon-32x32.png">
@@ -89,7 +89,7 @@
 <meta property="og:url" content="https://azrar-systems.com/">
 <meta property="og:title" content="AZRAR — نظام إدارة العقارات الأكثر تكاملاً">
 <meta property="og:description" content="نظام أزرار: 17 نظاماً في تطبيق واحد. بيانات محلية 100% بدون إنترنت. تجربة 30 يوم مجانية.">
-<meta property="og:image" content="https://azrar-systems.com/og-image.png?v=4">
+<meta property="og:image" content="https://azrar-systems.com/og-image.png?v=5">
 <meta property="og:image:width" content="1200">
 <meta property="og:image:height" content="630">
 <meta property="og:image:alt" content="AZRAR SYSTEMS — نظام إدارة العقارات">
@@ -97,7 +97,7 @@
 <meta property="og:locale:alternate" content="en_US">
 <meta property="og:site_name" content="AZRAR SYSTEMS">
 <meta name="twitter:card" content="summary_large_image">
-<meta name="twitter:image" content="https://azrar-systems.com/og-image.png?v=4">
+<meta name="twitter:image" content="https://azrar-systems.com/og-image.png?v=5">
 <meta name="twitter:image:alt" content="AZRAR SYSTEMS — Real Estate Management">
 <link rel="alternate" hreflang="ar" href="https://azrar-systems.com/">
 <link rel="alternate" hreflang="en" href="https://azrar-systems.com/?lang=en">

diff --git a/faq.html b/faq.html
@@ -38,11 +38,11 @@ window.addEventListener('load',function(){
 <meta property="og:url" content="https://azrar-systems.com/faq.html">
 <meta property="og:title" content="الأسئلة الشائعة عن نظام أزرار العقاري | AZRAR FAQ">
 <meta property="og:description" content="إجابات شاملة على أكثر الأسئلة تكراراً عن نظام أزرار: العمل بدون إنترنت، التفعيل، الأجهزة، الأمان، الأقساط، الدعم، والأسعار.">
-<meta property="og:image" content="https://azrar-systems.com/og-image.png?v=4">
+<meta property="og:image" content="https://azrar-systems.com/og-image.png?v=5">
 <meta property="og:image:width" content="1200"><meta property="og:image:height" content="630">
 <meta property="og:site_name" content="AZRAR SYSTEMS">
 <meta name="twitter:card" content="summary_large_image">
-<meta name="twitter:image" content="https://azrar-systems.com/og-image.png?v=4">
+<meta name="twitter:image" content="https://azrar-systems.com/og-image.png?v=5">
 <link rel="icon" href="logo.png">
 <link rel="preconnect" href="https://fonts.googleapis.com"><link rel="preconnect" href="https://fonts.gstatic.com" crossorigin><link href="https://fonts.googleapis.com/css2?family=Tajawal:wght@400;500;700;800;900&family=Inter:wght@400;600;700&display=swap" rel="stylesheet" media="print" onload="this.media='all'"><noscript><link href="https://fonts.googleapis.com/css2?family=Tajawal:wght@400;500;700;800;900&family=Inter:wght@400;600;700&display=swap" rel="stylesheet"></noscript>
 <style>

diff --git a/articles.html b/articles.html
@@ -38,11 +38,11 @@ window.addEventListener('load',function(){
 <meta property="og:url" content="https://azrar-systems.com/articles.html">
 <meta property="og:title" content="مدونة أزرار — مقالات ونصائح في إدارة العقارات | AZRAR Blog">
 <meta property="og:description" content="مقالات ونصائح عملية في إدارة العقارات، عقود الإيجار، حساب الأقساط والغرامات، واختيار البرامج العقارية.">
-<meta property="og:image" content="https://azrar-systems.com/og-image.png?v=4">
+<meta property="og:image" content="https://azrar-systems.com/og-image.png?v=5">
 <meta property="og:image:width" content="1200"><meta property="og:image:height" content="630">
 <meta property="og:site_name" content="AZRAR SYSTEMS">
 <meta name="twitter:card" content="summary_large_image">
-<meta name="twitter:image" content="https://azrar-systems.com/og-image.png?v=4">
+<meta name="twitter:image" content="https://azrar-systems.com/og-image.png?v=5">
 <link rel="icon" href="logo.png">
 <link rel="preconnect" href="https://fonts.googleapis.com"><link rel="preconnect" href="https://fonts.gstatic.com" crossorigin><link href="https://fonts.googleapis.com/css2?family=Tajawal:wght@400;500;700;800;900&family=Inter:wght@400;600;700&display=swap" rel="stylesheet" media="print" onload="this.media='all'"><noscript><link href="https://fonts.googleapis.com/css2?family=Tajawal:wght@400;500;700;800;900&family=Inter:wght@400;600;700&display=swap" rel="stylesheet"></noscript>
 <style>

diff --git a/use-cases.html b/use-cases.html
@@ -38,11 +38,11 @@ window.addEventListener('load',function(){
 <meta property="og:url" content="https://azrar-systems.com/use-cases.html">
 <meta property="og:title" content="حالات استخدام نظام أزرار العقاري | AZRAR Use Cases">
 <meta property="og:description" content="كيف يخدم نظام أزرار كل نوع: صاحب المكتب المنفرد، المكتب الصغير، الشركة العقارية الكبيرة، وإدارة أملاك الغير.">
-<meta property="og:image" content="https://azrar-systems.com/og-image.png?v=4">
+<meta property="og:image" content="https://azrar-systems.com/og-image.png?v=5">
 <meta property="og:image:width" content="1200"><meta property="og:image:height" content="630">
 <meta property="og:site_name" content="AZRAR SYSTEMS">
 <meta name="twitter:card" content="summary_large_image">
-<meta name="twitter:image" content="https://azrar-systems.com/og-image.png?v=4">
+<meta name="twitter:image" content="https://azrar-systems.com/og-image.png?v=5">
 <link rel="icon" href="logo.png">
 <link rel="preconnect" href="https://fonts.googleapis.com"><link rel="preconnect" href="https://fonts.gstatic.com" crossorigin><link href="https://fonts.googleapis.com/css2?family=Tajawal:wght@400;500;700;800;900&family=Inter:wght@400;600;700&display=swap" rel="stylesheet" media="print" onload="this.media='all'"><noscript><link href="https://fonts.googleapis.com/css2?family=Tajawal:wght@400;500;700;800;900&family=Inter:wght@400;600;700&display=swap" rel="stylesheet"></noscript>
 <style>
